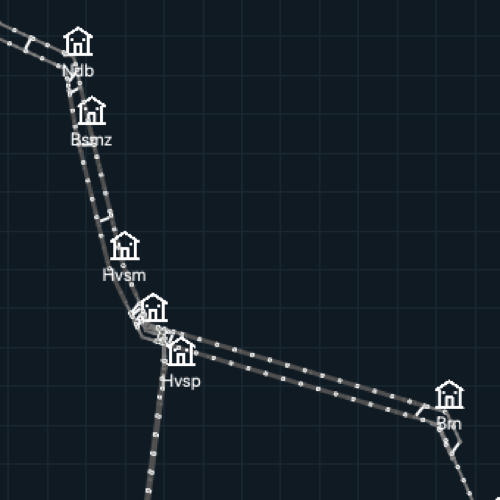
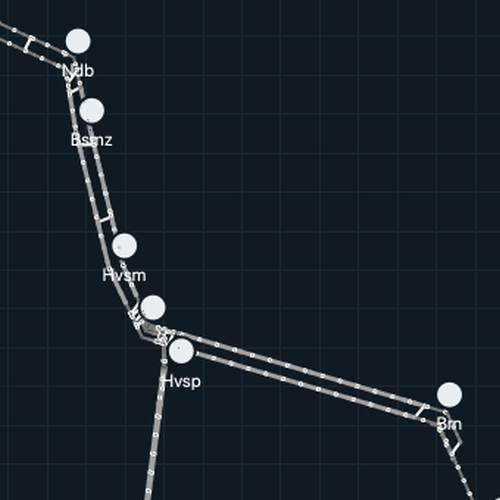
Refresh the current-build captures of the renderer comparison
The frames showed the house pictogram and the old mainline grey, which the canvas no longer draws.

Changed region(s): [[0.12, 0.03, 0.93, 1.0], [0.99, 0.99, 1.0, 1.0], [0.9, 0.93, 0.93, 0.96]]

diff --git a/docs/ui/historical-track-comparison.md b/docs/ui/historical-track-comparison.md
@@ -157,19 +157,22 @@ matched-extent application captures and manual interaction checks.
 
 ## Evidence
 
-Each pair below shows the same stretch of the network in the reference build
-and in the current build, at the same size in pixels. The windows were 1280x800
-at device pixel ratio 1. Each image is a crop of the network canvas, resized so
-that the two frames of a pair show the same extent. The zoom given for a pair is
-the zoom of the window before the crop, so a frame can show the network larger
-or smaller than the window did, and the sizes in a Fit frame and in a detail
-frame are not in the ratio of their zooms. The reference builds are `472d0b5`
-and, for the Netherlands, `f138134`. The current build is main `037a2e43`. Both
-builds zoom by 1.15 per click. The zoom label of the current build is the ratio
-to its own Fit scale. The reference build has no zoom label, so its zoom is the
-number of zoom-in clicks from Fit. The reference build fits the scene rectangle
-and the current build fits the painted track with 24 px of padding, so the same
-number of clicks from Fit does not show the same extent in both builds.
+Each pair below shows the same stretch of the network in the reference build and
+in the current build, at the same size in pixels. The reference frames come from
+windows of 1280x800 at device pixel ratio 1. The current frames come from the
+offscreen platform at device pixel ratio 1, with the network canvas at 1254 by
+566 px, its size in a 1280x800 window. Each image is a crop of the network
+canvas, resized so that the two frames of a pair show the same extent. The zoom
+given for a pair is the zoom of the window before the crop, so a frame can show
+the network larger or smaller than the window did, and the sizes in a Fit frame
+and in a detail frame are not in the ratio of their zooms. The reference builds
+are `472d0b5` and, for the Netherlands, `f138134`. The current build is main
+`946ee7eb`. Both builds zoom by 1.15 per click. The zoom label of the current
+build is the ratio to its own Fit scale. The reference build has no zoom label,
+so its zoom is the number of zoom-in clicks from Fit. The reference build fits
+the scene rectangle and the current build fits the painted track with 24 px of
+padding, so the same number of clicks from Fit does not show the same extent in
+both builds.
 
 Under each pair the first paragraph gives the build, the scene, the zoom and the
 landmarks, and the second says what differs inside the pair: the symbols first,
@@ -183,16 +186,16 @@ them.
 
 ![Paimpol at Fit in the current build](images/paimpol-fit-current.png)
 
-Reference build `472d0b5` above, current build main `037a2e43` below. Scene
+Reference build `472d0b5` above, current build main `946ee7eb` below. Scene
 Paimpol at Fit in both builds, so the whole line shows, with Guingamp at the left
 end and Paimpol at the right end. The positions of the ten stations agree within
 about 0.5 percent of the frame width.
 
-In the symbols, the current frame draws a pictogram and a readable name for each
-station and hides the name of Pontrieaux_Halte where it overlaps the name of
-Pontrieaux, while the reference frame has no pictogram and names too small to
-read. In the geometry, the siding at Pontrieaux shows in the current frame only,
-as a short second row under the line.
+In the symbols, the current frame draws a light disc with a dark halo and a
+readable name for each station and hides the name of Pontrieaux_Halte where it
+overlaps the name of Pontrieaux, while the reference frame has no station mark
+and names too small to read. In the geometry, the siding at Pontrieaux shows in
+the current frame only, as a short second row under the line.
 
 ### Paimpol at detail
 
@@ -200,12 +203,12 @@ as a short second row under the line.
 
 ![Paimpol at detail in the current build](images/paimpol-detail-current.png)
 
-Reference build `472d0b5` above, current build main `037a2e43` below. Scene
+Reference build `472d0b5` above, current build main `946ee7eb` below. Scene
 Paimpol, 16 zoom-in clicks from Fit (zoom label 9.4x in the current build), then
 10 arrow-key presses in both builds. Pontrieaux_Halte and Pontrieaux stand at the
 same x in both frames, and the signals, node dots and station squares line up.
 
-In the symbols, the current frame adds a pictogram above each name, draws the
+In the symbols, the current frame adds a light disc above each name, draws the
 names larger because the minimum name size applies at this zoom, and writes
 Pontrieaux_Halte without the space after the underscore that the reference frame
 draws. In the geometry, the siding below the line at Pontrieaux, with its
@@ -217,12 +220,12 @@ diagonal connection and its signals, is in the current frame only.
 
 ![Copenhagen junction in the current build](images/copenhagen-junction-current.png)
 
-Reference build `472d0b5` above, current build main `037a2e43` below. Scene
+Reference build `472d0b5` above, current build main `946ee7eb` below. Scene
 Copenhagen, 22 zoom-in clicks from Fit (zoom label 21.6x in the current build),
 then 10 arrow-key presses in both builds. Carlsberg, Dybbolsbro, Kobenhavn H and
 Vesterport stand at the same x in both frames, within 3 px.
 
-In the symbols, the current frame adds a pictogram above each name and draws the
+In the symbols, the current frame adds a light disc above each name and draws the
 names larger because the minimum name size applies at this zoom. In the
 geometry, the reference frame draws one line, with signals at more x positions
 than either current row, where the current frame draws two parallel rows joined
@@ -235,17 +238,17 @@ reference line has a signal.
 
 ![Netherlands stretch in the current build](images/netherlands-stretch-current.png)
 
-Reference build `f138134` above, current build main `037a2e43` below. Scene
+Reference build `f138134` above, current build main `946ee7eb` below. Scene
 Netherlands, 6 zoom-in clicks from Fit (zoom label 2.3x in the current build).
 The landmarks are the track corner at Ndb, the corner between Hvsm and Hvsp and
 the corner at Blm, which agree within about 20 px in the 500 px frames. This is
 the loosest match of the pairs, because the current case has doubled tracks.
 
-In the symbols, the current frame draws a pictogram and a name at each station,
-and the reference frame has no readable station label. In the geometry, the
-current frame draws doubled tracks, stations beside them and crossovers where the
-reference frame draws a single line, with one short extra segment at the corner
-between Hvsm and Hvsp.
+In the symbols, the current frame draws a light disc and a name at each station
+and the mainline track in grey (160,160,160), and the reference frame has no
+readable station label. In the geometry, the current frame draws doubled tracks,
+stations beside them and crossovers where the reference frame draws a single
+line, with one short extra segment at the corner between Hvsm and Hvsp.
 
 ### Assignment corridor
 
@@ -256,18 +259,18 @@ shown.
 
 ![Assignment corridor at detail in the current build](images/assignment-detail-current.png)
 
-Current build main `037a2e43`, scene Assignment_Gvc_Gdg_Ut. The first frame is at
-Fit with the stations Gvc, Gdg and Ut, and the two parallel tracks of the corridor
-read as one band. The second frame is 10 zoom-in clicks from Fit (zoom label 4x),
-around Gdg, and shows the two tracks apart, with a signal on each track at
-regular intervals.
+Current build main `946ee7eb`, scene Assignment_Gvc_Gdg_Ut. The first frame is at
+Fit with the stations Gvc, Gdg and Ut, and the two parallel mainline tracks of the
+corridor, grey (160,160,160), read as one band. The second frame is 10 zoom-in
+clicks from Fit (zoom label 4x), around Gdg, and shows the two tracks apart, with
+a signal on each track at regular intervals.
 
 ### What the captures show and do not show
 
-- The reference frames show the station names and no pictogram, so the
-  pictogram of the current frames has no counterpart in them. At Fit the names in
-  the reference frames are too small to read, where the current build keeps the
-  pictogram at least 24 px and the name at least 12 px high.
+- The reference frames show the station names and no station mark, so the discs
+  of the current frames have no counterpart in them. At Fit the names in the
+  reference frames are too small to read, where the current build keeps the
+  station mark at least 24 px and the name at least 12 px high.
 - The names are larger in the current detail frames than in the reference frames
   at the same extent. The current build draws a name at least 12 px high.
 - The current frames have the `#101a22` background and its grid, the reference
@@ -276,8 +279,9 @@ regular intervals.
   head, and the opposing head sits on the other side of the line at the same
   offsets. Node dots are light gray (192,192,192) and sit at the ends of the track
   segments. Both builds draw the track with a cosmetic pen of 2 px.
-- No capture shows a running state, so the red and yellow aspects, the unpainted
-  track states and the white repaint of the reference are not shown.
+- No capture shows a running state, so the trains, which keep at least 8 px on
+  screen, the red and yellow aspects, the unpainted track states and the white
+  repaint of the reference are not shown.
 - Interaction (hit testing, signal inspection, layer toggles, Follow, zoom and
   pan) and the run, pause, stop and replay states are not shown by these
   captures.
